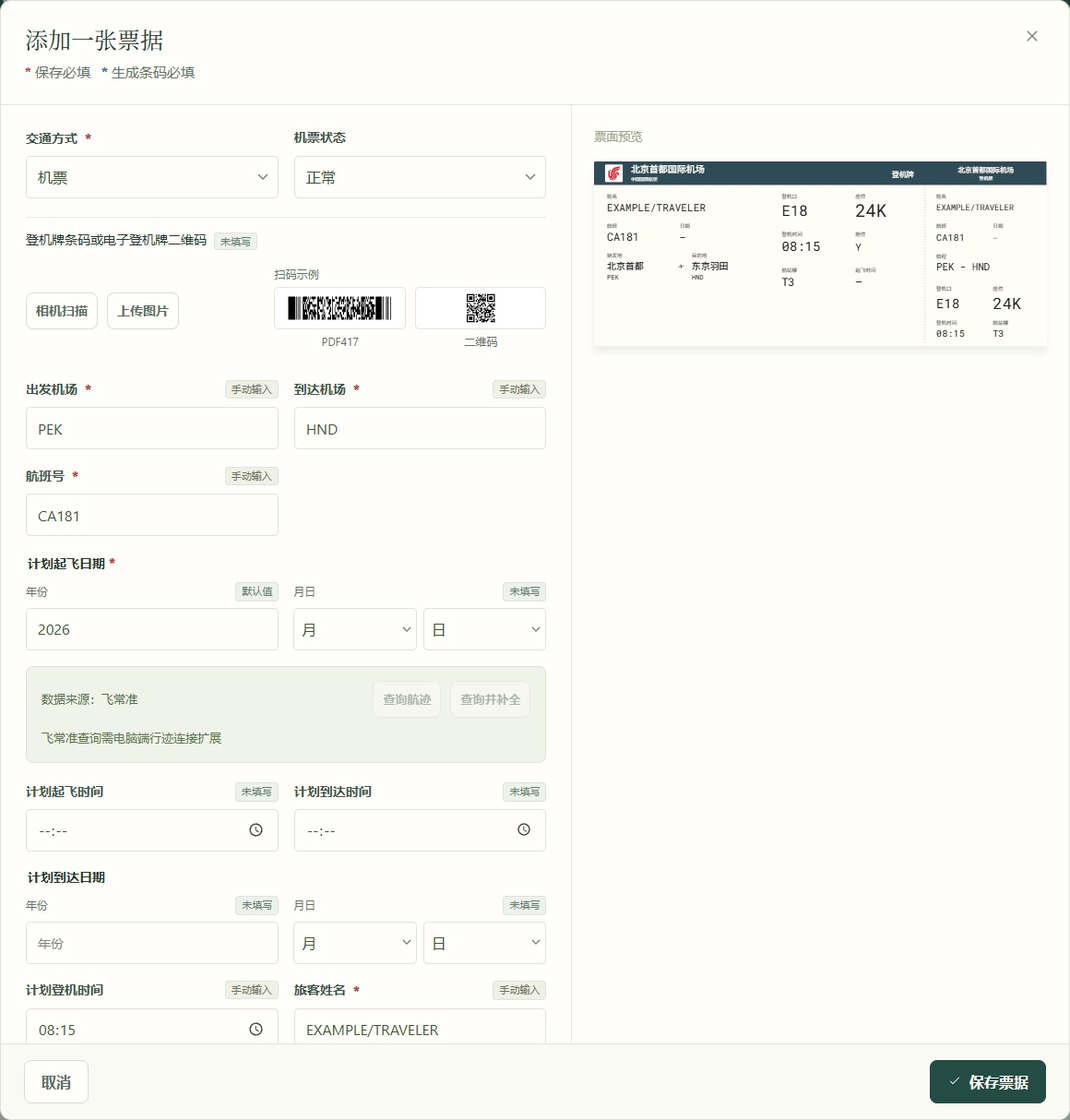
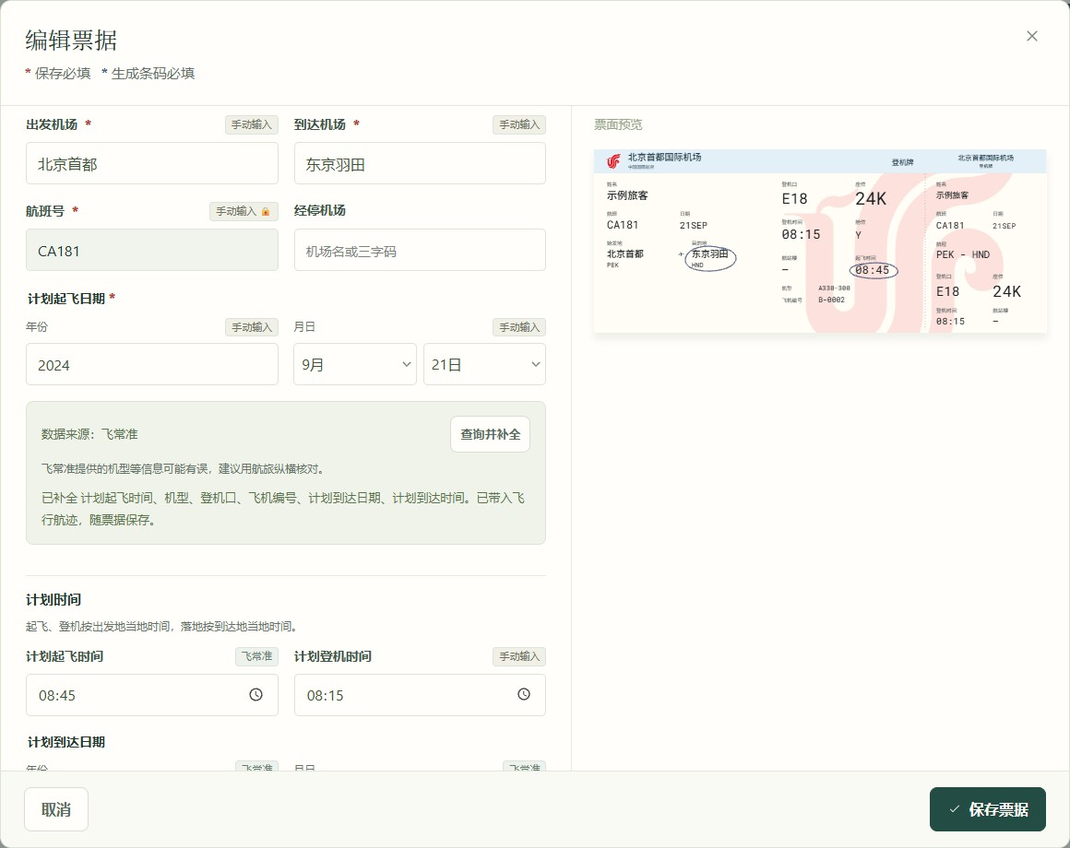
Combine flight track and on-demand ticket lookup

diff --git a/src/flight-lookup.js b/src/flight-lookup.js
@@ -15,34 +15,29 @@ const lookupLabels = {
 };
 
 export function flightLookupMarkup() {
-  return `<section class="flight-lookup" aria-label="航班信息补全"><div class="flight-lookup-heading"><span>数据来源：飞常准</span><div class="button-row flight-lookup-actions"><button class="button secondary small" type="button" data-flight-track-query>查询航迹</button><button class="button secondary small" type="button" data-flight-lookup>查询并补全</button></div></div><p class="flight-lookup-note">飞常准提供的机型等信息可能有误，建议用航旅纵横核对。</p><p class="flight-lookup-status" data-flight-status role="status" aria-live="polite"></p><div data-flight-candidates></div></section>`;
+  return `<section class="flight-lookup" aria-label="航班信息补全"><div class="flight-lookup-heading"><span>数据来源：飞常准</span><button class="button secondary small" type="button" data-flight-lookup>查询并补全</button></div><p class="flight-lookup-note">飞常准提供的机型等信息可能有误，建议用航旅纵横核对。</p><p class="flight-lookup-status" data-flight-status role="status" aria-live="polite"></p><div data-flight-candidates></div></section>`;
 }
 
 export function bindFlightLookup(form, { getRecord, getKey, canQuery, desktop, apply, applyTrack, onPending, lookup }) {
   const section = form.querySelector('.flight-lookup');
   if (!section) return () => {};
   const button = section.querySelector('[data-flight-lookup]'), status = section.querySelector('[data-flight-status]'), list = section.querySelector('[data-flight-candidates]');
-  const trackButton = section.querySelector('[data-flight-track-query]');
   const cache = new Map();
-  let disposed = false, activeRequest, candidates = [], candidateStamp = '', cacheOwner = '', selectedKey = '';
+  let disposed = false, activeRequest, candidates = [], candidateStamp = '', selectedKey = '';
   const stamp = () => { const record = getRecord(); return JSON.stringify(['type', 'service', 'departureDate', 'origin', 'originCode', 'destination', 'destinationCode'].map(field => record[field] || '')); };
-  const validContext = original => !disposed && form.isConnected && canQuery() && desktop() && stamp() === original && getKey() === selectedKey;
-  function refreshButtons() {
-    const record = getRecord();
-    let currentTrack = false;
-    if (record.flightTrack) {
-      try { currentTrack = record.flightTrack.flightStr === flightTrackRequest(record); } catch {}
-    }
-    trackButton.hidden = !applyTrack || currentTrack;
-    button.disabled = trackButton.disabled = Boolean(activeRequest) || !desktop() || !canQuery();
+  const isOpen = () => !disposed && form.isConnected;
+  const validContext = original => isOpen() && canQuery() && desktop() && stamp() === original && getKey() === selectedKey;
+  const changed = () => { if (isOpen()) status.textContent = '航班或连接已改变，请重新查询。'; };
+  function refreshButton() {
+    button.disabled = Boolean(activeRequest) || !desktop() || !canQuery();
   }
-  refreshButtons();
+  refreshButton();
   if (!desktop()) status.textContent = '飞常准查询需电脑端行迹连接扩展';
   function connectorFor(signal) {
     if (!desktop()) throw new Error('请在电脑 Chrome 或 Edge 安装行迹连接扩展后查询');
     const key = getKey();
     if (!key) throw new Error('请先在「数据与同步」配置飞常准 Key');
-    if (cacheOwner !== key) { cache.clear(); cacheOwner = key; }
+    if (selectedKey !== key) cache.clear();
     selectedKey = key;
     return new FlightConnector(key, signal);
   }
@@ -54,21 +49,49 @@ export function bindFlightLookup(form, { getRecord, getKey, canQuery, desktop, a
     return value;
   }
   const source = () => ({ kind: 'flight-lookup', label: '飞常准航班查询', at: new Date().toISOString() });
-  async function fillRegistration(connector) {
-    const query = flightQuery(getRecord()), original = stamp();
+  function missingTrackRequest() {
+    if (!applyTrack) return;
+    const record = getRecord();
+    try {
+      const flightStr = flightTrackRequest(record);
+      if (record.flightTrack?.flightStr !== flightStr) return flightStr;
+    } catch { /* The track needs an active flight with both airports resolved. */ }
+  }
+  async function fillRegistration(connector, original, summary) {
+    const query = flightQuery(getRecord());
     if (!query.dep || !query.arr) return '补全起降机场后可查询飞机编号。';
-    status.textContent += '正在查询飞机编号…';
+    status.textContent = summary + '正在查询飞机编号…';
     try {
       const value = await fromCache('registration:' + JSON.stringify(query), async () =>
         rotationRegistration(await connector.aircraftRotation(query), query));
-      if (!validContext(original)) return '航班或连接已改变，请重新查询。';
+      if (!validContext(original) || !flightLookupNeeds(getRecord()).registration) return '';
       if (!value) return '飞常准暂无飞机编号。';
-      if (!flightLookupNeeds(getRecord()).registration) return '';
       apply({ aircraftRegistration: value }, source());
       return '已补全飞机编号。';
-    } catch (error) {
-      return validContext(original) ? error.message : '航班或连接已改变，请重新查询。';
+    } catch (error) { return error.message + '。'; }
+  }
+  async function fillTrack(connector, flightStr, original, summary) {
+    status.textContent = summary + '正在查询航迹…';
+    try {
+      const track = await fromCache('track:' + flightStr, async () => readFlightTrack(await connector.flightTrack(flightStr), flightStr));
+      if (!validContext(original) || missingTrackRequest() !== flightStr) return '';
+      if (!track) return '暂无这班航班的航迹。';
+      applyTrack(track);
+      return '已带入飞行航迹，随票据保存。';
+    } catch (error) { return '航迹未获取。' + error.message; }
+  }
+  async function fillMissing(connector, summary = '', empty = '已有信息均已填写。') {
+    const original = stamp();
+    if (flightLookupNeeds(getRecord()).registration) {
+      summary += await fillRegistration(connector, original, summary);
+      if (!validContext(original)) return changed();
     }
+    const flightStr = missingTrackRequest();
+    if (flightStr) {
+      summary += await fillTrack(connector, flightStr, original, summary);
+      if (!validContext(original)) return changed();
+    }
+    status.textContent = summary || empty;
   }
   async function accept(index, connector) {
     if (!validContext(candidateStamp) || !candidates[index]) { list.innerHTML = ''; status.textContent = '查询条件已改变，请重新查询'; return; }
@@ -89,61 +112,32 @@ export function bindFlightLookup(form, { getRecord, getKey, canQuery, desktop, a
     if (!recordBeforeLookup.boardingTime && !recordBeforeLookup.lockedFields?.includes('boardingTime') && !candidate.boardingTime) {
       summary += '飞常准未提供计划登机时间。';
     }
-    if (!summary) summary = '本次没有可补全的航班信息。';
-    status.textContent = summary;
-    if (flightLookupNeeds(getRecord()).registration) {
-      const registrationContext = stamp();
-      const message = await fillRegistration(connector);
-      if (!validContext(registrationContext)) {
-        if (!disposed && form.isConnected) status.textContent = '航班或连接已改变，请重新查询。';
-        return;
-      }
-      summary += message;
-      status.textContent = summary;
-    }
-    if (!applyTrack) return;
-    let flightStr;
-    try { flightStr = flightTrackRequest(getRecord()); } catch { return; }
-    await queryTrack(connector, summary, flightStr);
-  }
-  async function queryTrack(connector, summary = '', flightStr = flightTrackRequest(getRecord())) {
-    const context = stamp();
-    if (getRecord().flightTrack?.flightStr === flightStr) {
-      status.textContent = summary + '已有飞行航迹。';
-      return;
-    }
-    status.textContent = summary + '正在查询航迹…';
-    try {
-      const track = await fromCache('track:' + flightStr, async () => readFlightTrack(await connector.flightTrack(flightStr), flightStr));
-      if (!validContext(context)) {
-        if (!disposed && form.isConnected) status.textContent = '航班或连接已改变，请重新查询。';
-        return;
-      }
-      if (track) applyTrack(track);
-      status.textContent = summary + (track ? '已带入飞行航迹，随票据保存。' : '暂无这班航班的航迹。');
-    } catch (error) {
-      if (validContext(context)) status.textContent = summary + '航迹未获取。' + error.message;
-      else if (!disposed && form.isConnected) status.textContent = '航班或连接已改变，请重新查询。';
-    }
+    await fillMissing(connector, summary, '本次没有可补全的航班信息。');
   }
   async function query(signal) {
-    list.innerHTML = ''; candidates = [];
-    const request = flightQuery(getRecord()), needs = flightLookupNeeds(getRecord());
-    if (!needs.schedule && !needs.registration && !needs.stopover) { status.textContent = '已有信息均已填写。'; return; }
-    const connector = connectorFor(signal), original = stamp();
-    if (!needs.schedule && needs.registration && request.dep && request.arr) {
-      status.textContent = '';
-      const message = await fillRegistration(connector);
-      if (!disposed && form.isConnected) status.textContent = message || '已有信息均已填写。';
+    list.innerHTML = ''; candidates = []; candidateStamp = '';
+    const record = getRecord(), request = flightQuery(record), needs = flightLookupNeeds(record);
+    const needsSchedule = needs.schedule || needs.stopover || (needs.registration && (!request.dep || !request.arr));
+    if (!needsSchedule && !needs.registration && !missingTrackRequest()) {
+      status.textContent = '已有信息均已填写。';
       return;
     }
+    const connector = connectorFor(signal), original = stamp();
+    if (!needsSchedule) return fillMissing(connector);
     status.textContent = '正在查询飞常准…';
-    const fetched = await fromCache('schedule:' + JSON.stringify(request), async () =>
-      lookup ? lookup(request, selectedKey) : flightCandidates(await connector.flightStatus(request), request));
+    let fetched;
+    try {
+      fetched = await fromCache('schedule:' + JSON.stringify(request), async () =>
+        lookup ? lookup(request, selectedKey) : flightCandidates(await connector.flightStatus(request), request));
+    } catch (error) {
+      if (!validContext(original)) return changed();
+      if (!request.dep || !request.arr) throw error;
+      return fillMissing(connector, error.message + '。');
+    }
+    if (!validContext(original)) return changed();
     const rows = fetched.filter(row => row.service === request.fnum && sameDate(row.departureDate,request.date) && (!request.dep || row.originCode === request.dep) && (!request.arr || row.destinationCode === request.arr));
-    if (!validContext(original)) { if (!disposed && form.isConnected) status.textContent = '查询条件或连接已改变，本次结果未填入'; return; }
+    if (!rows.length) return fillMissing(connector, '未查到可核对日期与机场的航班信息。');
     candidates = rows; candidateStamp = original;
-    if (!rows.length) { status.textContent = '未查到可核对日期与机场的航班信息，原有内容未改变。'; return; }
     if (rows.length === 1) { await accept(0, connector); return; }
     status.textContent = `找到 ${rows.length} 个航段，请选择要补全的这一程。`;
     list.innerHTML = rows.map((row, index) => `<button type="button" class="flight-candidate" data-flight-candidate="${index}"><strong>${e(row.origin)} <code>${e(row.originCode)}</code> → ${e(row.destination)} <code>${e(row.destinationCode)}</code></strong><span>计划 ${e(calendarDate(row.departureDate))} ${e(row.departureTime)} → ${e(calendarDate(row.arrivalDate) || '日期待补充')} ${e(row.arrivalTime)}</span>${row.actualDepartureTime || row.actualArrivalTime ? `<span>实际 ${e(calendarDate(row.actualDepartureDate) || '日期待补充')} ${e(row.actualDepartureTime || '待补充')} → ${e(calendarDate(row.actualArrivalDate) || '日期待补充')} ${e(row.actualArrivalTime || '待补充')}</span>` : ''}<small>${e([row.airline, row.aircraft, row.flightDistance && '航程 ' + row.flightDistance + ' km'].filter(Boolean).join(' · '))} · 选择并补全</small></button>`).join('');
@@ -151,25 +145,24 @@ export function bindFlightLookup(form, { getRecord, getKey, canQuery, desktop, a
   function run(action) {
     if (activeRequest || disposed || !canQuery()) return;
     activeRequest = new AbortController();
-    refreshButtons();
+    refreshButton();
     const pending = action(activeRequest.signal)
-      .catch(error => { if (!disposed && form.isConnected) status.textContent = error.message; })
+      .catch(error => { if (isOpen()) status.textContent = error.message; })
       .finally(() => {
         activeRequest = undefined;
-        if (!disposed && form.isConnected) refreshButtons();
+        if (isOpen()) refreshButton();
       });
     onPending?.(pending);
   }
   const click = event => {
-    const target = event.target.closest('[data-flight-lookup],[data-flight-candidate],[data-flight-track-query]');
+    const target = event.target.closest('[data-flight-lookup],[data-flight-candidate]');
     if (!target) return;
     if (target.hasAttribute('data-flight-lookup')) run(query);
-    else if (target.hasAttribute('data-flight-track-query')) run(async signal => queryTrack(connectorFor(signal)));
     else run(signal => accept(Number(target.dataset.flightCandidate), new FlightConnector(selectedKey, signal)));
   };
   const input = () => {
     if (candidateStamp && stamp() !== candidateStamp) { candidates = []; list.innerHTML = ''; status.textContent = '航班或机场已改变，请重新查询'; }
-    refreshButtons();
+    refreshButton();
   };
   section.addEventListener('click', click); form.addEventListener('input', input);
   return () => { disposed = true; activeRequest?.abort(); cache.clear(); section.removeEventListener('click', click); form.removeEventListener('input', input); };

diff --git a/tests/flight-lookup.test.js b/tests/flight-lookup.test.js
@@ -166,9 +166,11 @@ test('only explicit scheduled boarding times fill the planned boarding field', (
   assert.equal(flightCompletion(scanned, planned).actualBoardingTime, undefined);
 });
 
-test('a missing registration queries only the aircraft rotation, despite a missing track', async () => {
+test('completion queries missing aircraft registration and tracks, reusing each value once filled', async () => {
   const [complete] = flightCandidates(payload([row({ StopFlag: '1', StopAirportCode: 'KIX', LegFlag: '0' })]), input);
-  const instance = component({ rows: [complete], applyTrack: () => assert.fail('unexpected track query') });
+  const flightStr = 'CA181_PEK_HND_2026-07-18_0';
+  const segments = [[[116.59, 40.08], [139.78, 35.55]]];
+  const instance = component({ rows: [complete], applyTrack: track => { instance.current.flightTrack = track; } });
   const calls = [], previousFetch = globalThis.fetch;
   const response = (arr = 'HND') => ({ structuredContent: { kind: 'item', item: {
     fnum: 'CA181', date: '2026-07-18', aircraftNumber: 'B5846',
@@ -179,11 +181,12 @@ test('a missing registration queries only the aircraft rotation, despite a missi
     const message = JSON.parse(options.body);
     if (message.method === 'notifications/initialized') return new Response(null, { status: 202 });
     if (message.method === 'tools/call') calls.push(message.params);
-    const result = message.method === 'initialize' ? { protocolVersion: '2025-03-26' } : response();
+    const result = message.method === 'initialize' ? { protocolVersion: '2025-03-26' } :
+      message.params.name === 'getFlightTrackLine' ? payload([{ flightStr, segments }]) : response();
     return Response.json({ id: message.id, result }, { headers: { 'Mcp-Session-Id': 'flight-session' } });
   };
   try {
-    Object.assign(instance.current, complete, { aircraftRegistration: '',
+    Object.assign(instance.current, complete, { aircraftRegistration: '', flightTrack: { flightStr, segments },
       fieldSources: { boardingTime: 'barcode', departureTime: 'variflight' }, lockedFields: ['boardingTime'] });
     instance.form.querySelector('[data-flight-lookup]').click(); await settle();
     assert.deepEqual(calls, [{ name: 'getAircraftRotation', arguments: { fnum: 'CA181', date: '2026-07-18', dep: 'PEK', arr: 'HND' } }]);
@@ -191,6 +194,13 @@ test('a missing registration queries only the aircraft rotation, despite a missi
     assert.equal(instance.current.aircraftRegistration, 'B-5846');
     instance.form.querySelector('[data-flight-lookup]').click(); await settle();
     assert.equal(calls.length, 1);
+    delete instance.current.flightTrack;
+    instance.current.aircraftRegistration = '';
+    instance.form.querySelector('[data-flight-lookup]').click(); await settle();
+    assert.deepEqual(calls.slice(1), [{ name: 'getFlightTrackLine', arguments: { flightStr } }]);
+    assert.deepEqual(instance.current.flightTrack.segments, segments);
+    assert.equal(instance.current.aircraftRegistration, 'B-5846');
+    assert.equal(instance.calls, 0);
   } finally { globalThis.fetch = previousFetch; instance.dispose(); instance.dom.window.close(); }
 });
 
@@ -222,6 +232,33 @@ test('a lookup fills the stopover when every other provider field is already kno
     button.click(); await settle();
     assert.equal(instance.calls, 1);
   } finally { instance.dispose(); instance.dom.window.close(); }
+});
+
+test('a failed schedule lookup can still add a track when both airports are known', async () => {
+  const [current] = flightCandidates(payload([row()]), input);
+  const flightStr = 'CA181_PEK_HND_2026-07-18_0';
+  const segments = [[[116.59, 40.08], [139.78, 35.55]]];
+  const instance = component({
+    lookup: async () => { throw new Error('时刻暂不可用'); },
+    applyTrack: track => { instance.current.flightTrack = track; }
+  });
+  Object.assign(instance.current, current, { gate: '' });
+  const previousFetch = globalThis.fetch, calls = [];
+  globalThis.fetch = async (_url, options) => {
+    const { id, method, params } = JSON.parse(options.body);
+    if (method === 'notifications/initialized') return new Response(null, { status: 202 });
+    if (method === 'tools/call') calls.push(params);
+    const result = method === 'initialize' ? { protocolVersion: '2025-03-26' } : payload([{ flightStr, segments }]);
+    return Response.json({ id, result }, { headers: { 'Mcp-Session-Id': 'flight-session' } });
+  };
+  try {
+    instance.form.querySelector('[data-flight-lookup]').click(); await settle();
+    assert.equal(instance.calls, 1);
+    assert.deepEqual(calls, [{ name: 'getFlightTrackLine', arguments: { flightStr } }]);
+    assert.deepEqual(instance.current.flightTrack.segments, segments);
+    assert.equal(instance.current.gate, '');
+    assert.match(instance.form.querySelector('[data-flight-status]').textContent, /时刻暂不可用。已带入飞行航迹/);
+  } finally { globalThis.fetch = previousFetch; instance.dispose(); instance.dom.window.close(); }
 });
 
 test('provider aircraft names agree across fields or leave the aircraft field for review', async () => {

diff --git a/tests/flight-track.test.js b/tests/flight-track.test.js
@@ -15,6 +15,8 @@ const flight = createRecord({
   origin: 'NRT', destination: 'LAX', departureDate: '2026-11-23', passenger: 'TEST/PASSENGER', identity: 'P000001', seat: '12A', seatClass: 'Y',
   departureTime: '18:00', arrivalDate: '2026-11-23', arrivalTime: '11:00',
   actualDepartureDate: '2026-11-23', actualDepartureTime: '18:10', actualArrivalDate: '2026-11-23', actualArrivalTime: '11:20',
+  flightDistance: '8800', airline: '日本航空', aircraft: '787-9', aircraftRegistration: 'JA123A',
+  terminal: 'T1', gate: '31', boardingTime: '17:20',
   flightStop: { fnum: 'JL62', date: '2026-11-23', dep: 'NRT', arr: 'LAX', airport: 'ANC' }
 });
 const flightStr = 'JL62_NRT_LAX_2026-11-23_0';
@@ -102,8 +104,12 @@ test('flight track queries run in the editor and saved tracks replay in details'
     if (message.method === 'initialize') result = { protocolVersion: '2025-03-26' };
     else if (message.params.name === 'getFlightStatus') result = { structuredContent: { kind: 'collection', items: [{
       FlightNo: 'MF8179', FlightDepcode: 'PKX', FlightArrcode: 'XNN', FlightDeptimePlanDate: '2026-08-11 18:05:00',
-      FlightArrtimePlanDate: '2026-08-11 20:30:00', FlightCompany: '厦门航空', aircraftNumber: 'B5846',
+      FlightArrtimePlanDate: '2026-08-11 20:30:00', FlightCompany: '厦门航空',
     }] }};
+    else if (message.params.name === 'getAircraftRotation') result = { structuredContent: { kind: 'item', item: {
+      fnum: 'MF8179', date: '2026-08-11', aircraftNumber: 'B5846',
+      currentFlight: { fnum: 'MF8179', departureCode: 'PKX', arrivalCode: 'XNN' }
+    } }};
     else if (message.params.arguments.flightStr === domesticFlightStr) {
       await new Promise(resolve => { finishTrack = resolve; });
       result = { structuredContent: domesticTrack };
@@ -126,19 +132,23 @@ test('flight track queries run in the editor and saved tracks replay in details'
     element('[data-action=view]').click();
     await waitFor(() => element('.ticket-detail-modal'));
     assert.equal(element('[data-flight-track]'), null);
-    assert.equal(element('[data-flight-track-query]'), null);
+    assert.equal(element('[data-flight-lookup]'), null);
     element('[data-action=edit]').click();
-    const query = await waitFor(() => element('[data-flight-track-query]:not(:disabled)'));
+    const query = await waitFor(() => element('[data-flight-lookup]:not(:disabled)'));
+    assert.deepEqual([...element('.flight-lookup').querySelectorAll('button')].map(button => button.textContent), ['查询并补全']);
     assert.equal(requests.length, 0);
     query.click();
     query.click();
     await waitFor(() => element('[data-flight-status]')?.textContent.includes('已带入飞行航迹'));
+    await waitFor(() => !query.disabled);
+    query.click();
+    await waitFor(() => element('[data-flight-status]')?.textContent.includes('已有信息均已填写'));
     assert.equal(server.records()[0].flightTrack, undefined);
     element('#editor-form').dispatchEvent(new window.Event('submit', { bubbles: true, cancelable: true }));
     await waitFor(() => !element('dialog'));
     element('[data-action=view]').click();
     const play = await waitFor(() => element('[data-flight-track-play]:not([hidden])'));
-    assert.equal(element('[data-flight-track-query]'), null);
+    assert.equal(element('[data-flight-lookup]'), null);
     assert.deepEqual(requests, [{ name: 'getFlightTrackLine', arguments: { flightStr } }]);
     assert.deepEqual(server.records()[0].flightTrack.segments, coordinates);
     assert.equal(server.records()[0].passenger, 'TEST/PASSENGER');
@@ -232,6 +242,7 @@ test('flight track queries run in the editor and saved tracks replay in details'
     assert.equal(server.records().length, 1);
     finishTrack();
     const savedFlight = await waitFor(() => server.records().find(record => record.service === 'MF8179'));
+    assert.equal(savedFlight.aircraftRegistration, 'B-5846');
     assert.deepEqual(savedFlight.flightTrack.segments, domesticCoordinates);
     const mileage = journeyStatistics(server.records(), { dateTo: '2026-11-24' }, '2026-11-24');
     assert.equal(mileage.actualFlightDistanceTrips, 2);
@@ -239,6 +250,7 @@ test('flight track queries run in the editor and saved tracks replay in details'
     assert.equal(mileage.actualFlightDistance, expected);
     assert.deepEqual(requests.slice(1), [
       { name: 'getFlightStatus', arguments: { fnum: 'MF8179', date: '2026-08-11' } },
+      { name: 'getAircraftRotation', arguments: { fnum: 'MF8179', date: '2026-08-11', dep: 'PKX', arr: 'XNN' } },
       { name: 'getFlightTrackLine', arguments: { flightStr: domesticFlightStr } },
     ]);
     assert.equal(connections, 2);

diff --git a/src/flight-lookup-model.js b/src/flight-lookup-model.js
@@ -6,6 +6,7 @@ import { normalizeAircraftRegistration, reconcileAircraft } from './aircraft.js'
 import { flightNumber, flightQuery } from './flight-query.js';
 import { airlineNameForCode } from './airline-codes.js';
 import { airportCode, normalizeFlightStop } from './flight-stop.js';
+import { ticketFieldLocked } from './barcode-fields.js';
 
 const clean = value => typeof value === 'string' && !/^(?:-+|null|undefined|n\/?a)$/i.test(value.trim()) ? value.trim().slice(0, 1000) : '';
 const flightIdentity = value => flightNumber(value).replace(/^([A-Z0-9]{2})0+(?=\d)/, '$1');
@@ -148,7 +149,7 @@ export function rotationRegistration(result, query) {
 // Public schedules cannot supply a passenger, fare, seat, cabin, PNR or barcode.
 const scheduleFields = ['departureTime', 'flightDistance', 'airline', 'aircraft', 'terminal', 'gate', 'boardingTime'];
 const timePairs = [['arrivalDate', 'arrivalTime'], ['actualDepartureDate', 'actualDepartureTime'], ['actualArrivalDate', 'actualArrivalTime']];
-const canFill = (record, field) => !record[field] && !record.lockedFields?.includes(field);
+const canFill = (record, field) => !record[field] && !record.lockedFields?.includes(field) && !ticketFieldLocked(record, field);
 const canFillFlightStop = record => canFill(record, 'flightStop') && record.fieldSources?.flightStop !== 'manual';
 const canCompletePair = (record, [first, second]) =>
   (canFill(record, first) && (record[second] || canFill(record, second))) ||

diff --git a/src/styles.css b/src/styles.css
@@ -600,9 +600,7 @@ dialog.related-tickets-dialog::backdrop{backdrop-filter:none}
 .map-railway-status{display:flex;justify-content:center;flex-wrap:wrap;gap:6px 18px;padding:6px 12px;background:#10263a;color:#a2bacb;border-top:1px solid #2a4459;font-size:11px}.map-railway-status strong{font-weight:500;color:#d4e3ec}.map-legend:empty{display:none}
 .flight-lookup{grid-column:1/-1;padding:15px 16px;margin:0 0 20px;background:#eff3e9;border:1px solid #dce5d4;border-radius:8px;min-width:0}
 .flight-lookup-heading{display:flex;align-items:center;justify-content:space-between;flex-wrap:wrap;gap:8px 12px;font-size:13px;color:#59714f}
-.flight-lookup-actions{margin:0 0 0 auto}
-.flight-lookup-actions [hidden]{display:none}
-.flight-lookup-heading .button{flex:none;font-size:13px}
+.flight-lookup-heading .button{flex:none;margin-inline-start:auto;font-size:13px}
 .flight-lookup-note{font-size:12px;color:var(--muted);margin:8px 0 0}
 .flight-lookup-status{font-size:13px;line-height:1.8;color:#5a754c;margin:10px 0 0;overflow-wrap:anywhere}
 .flight-lookup-status:empty{display:none}

diff --git a/docs/data-sources.md b/docs/data-sources.md
@@ -6,7 +6,7 @@
 
 ![航班信息补全界面，使用虚构示例票据](images/flight-autofill.jpg)
 
-机票编辑器填写完整航班号和出发日期后，点击「查询并补全」。已有值和已锁定字段会跳过。只缺飞机编号且机场已确认时，只调用执飞机查询。普通航班补全确认航段后可同时获取航迹，也可以在编辑器单独点击「查询航迹」。结果随票保存，详情播放已收录的航迹。编辑器按航段与查询类型缓存结果五分钟。
+录入或编辑机票时，填写完整航班号和出发日期，点击「查询并补全」。应用按需查询航班资料、飞机编号和航迹，跳过已有值和锁定字段。只缺当前航段的航迹时，直接查询航迹。结果随票保存，详情可播放已收录的航迹。编辑器按航段与查询类型缓存结果五分钟。
 
 单个匹配航段自动补全空白字段，多个航段先选择。已有内容、已手动校正字段、旅客、证件、座位、舱位、票价、PNR、票号和条码不被覆盖。返回后若航班、日期、机场或连接已改变，或编辑器已关闭，结果不填入。数据仍需核对并手动保存。
 
